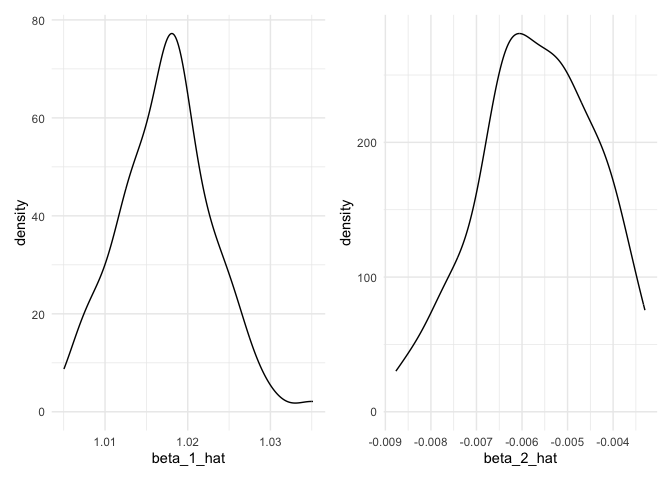
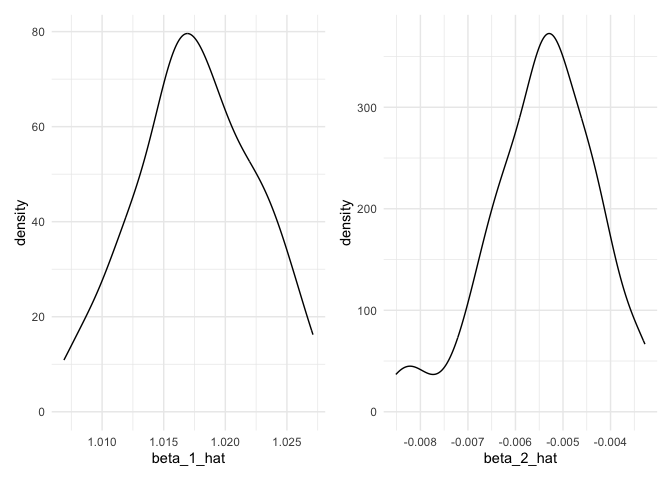
problem 3 - compare models

diff --git a/p8105_hw6_jg5038.md b/p8105_hw6_jg5038.md
@@ -159,7 +159,7 @@ b1_plot + b2_plot
 <img src="p8105_hw6_jg5038_files/figure-gfm/unnamed-chunk-7-1.png" width="90%" />
 
 $\hat{\beta}_1$ and $\hat{\beta}_2$ are both approximately normally
-distributed with means 1.017 and -0.006.
+distributed with means 1.018 and -0.005.
 
 Provide 95% confidence interval for \$^2 and $\hat{\beta}_1$ /
 $\hat{\beta}_2$ :
@@ -183,10 +183,10 @@ weather_sample_df |>
 
 | estimate    |     ci.lower |     ci.upper |
 |:------------|-------------:|-------------:|
-| beta_1\_hat |    1.0071401 |    1.0277218 |
-| beta_2\_hat |   -0.0082603 |   -0.0034429 |
-| beta_ratio  | -295.5294341 | -122.6917785 |
-| r_sq_hat    |    0.9328905 |    0.9462976 |
+| beta_1\_hat |    1.0082708 |    1.0260448 |
+| beta_2\_hat |   -0.0082164 |   -0.0033826 |
+| beta_ratio  | -302.8501595 | -123.5245685 |
+| r_sq_hat    |    0.9357467 |    0.9466976 |
 
 ## Problem 3
 
@@ -252,8 +252,8 @@ birth_df = read_csv('./data/birthweight.csv') |>
     ## ℹ Use `spec()` to retrieve the full column specification for this data.
     ## ℹ Specify the column types or set `show_col_types = FALSE` to quiet this message.
 
-First let’s look at the data by the most obvious predictor which is
-mother’s weight gain:
+First let’s look at the data by some obvious predictors: length,
+gestational weeks, and mother’s weight gain:
 
 ``` r
 birth_df |> 
@@ -262,6 +262,64 @@ birth_df |>
 ```
 
 <img src="p8105_hw6_jg5038_files/figure-gfm/unnamed-chunk-10-1.png" width="90%" />
+
+Look at scatterplots for all continuous variables:
+
+``` r
+birth_df |> 
+  select(-sex, -father_race, -mother_race, -malform) |> 
+  pivot_longer(cols = c("blength_in", "bhead_in", "gaweeks", "fincome", "m_height", "m_wt_lb", "m_ppwt_lb", "m_wtgain_lb", "m_age_delivery", "m_age_menarche","avg_cig_per_day","parity","pnumlbw","pnumsga"), names_to = "variable", values_to = "value") |> 
+  ggplot(aes(x = bwt_lb, y = value)) +
+  geom_point() +
+  facet_wrap(~ variable, scales = "free_y") + # 'scales = "free_y"' allows y-axes to vary
+  labs(title = "Birthweight and all continuous variables")
+```
+
+<img src="p8105_hw6_jg5038_files/figure-gfm/unnamed-chunk-11-1.png" width="90%" />
+
+Look at boxplots for all discrete variables:
+
+``` r
+birth_df |> 
+  select(bwt_lb, sex, father_race, mother_race, malform) |> 
+  pivot_longer(cols = c("sex", "father_race", "mother_race", "malform"), names_to = "variable", values_to = "value") |> 
+  ggplot(aes(x = bwt_lb, y = value)) +
+  geom_boxplot() +
+  facet_wrap(~ variable, scales = "free_y") + # 'scales = "free_y"' allows y-axes to vary
+  labs(title = "Birthweight and all discrete")
+```
+
+<img src="p8105_hw6_jg5038_files/figure-gfm/unnamed-chunk-12-1.png" width="90%" />
+
+Use a simple linear regression model using 3 predictors that look the
+most highly correlated in the scatterplots:
+
+``` r
+lm_3_predictors = function(df) {
+  lm(bwt_lb ~ blength_in + m_wtgain_lb + gaweeks, data = df)
+}
+
+lm_3_fit = lm_3_predictors(birth_df)
+
+#get built in plots for diagnostics
+plot(lm_3_fit)
+```
+
+<img src="p8105_hw6_jg5038_files/figure-gfm/unnamed-chunk-13-1.png" width="90%" /><img src="p8105_hw6_jg5038_files/figure-gfm/unnamed-chunk-13-2.png" width="90%" /><img src="p8105_hw6_jg5038_files/figure-gfm/unnamed-chunk-13-3.png" width="90%" /><img src="p8105_hw6_jg5038_files/figure-gfm/unnamed-chunk-13-4.png" width="90%" />
+
+Get predictions and look at residuals:
+
+``` r
+bwt_predictions = 
+  birth_df |> 
+  select(bwt_lb) |> 
+  mutate(
+    bwt_lb_pred = predict(lm_3_fit, newx = x),
+    residuals = bwt_lb - bwt_lb_pred
+  ) |> 
+  ggplot(aes(x = bwt_lb_pred, y = residuals)) +
+  geom_point(alpha = 0.5)
+```
 
 Use LASSO to build model:
 
@@ -305,7 +363,7 @@ lasso_fit |>
     ## Call `lifecycle::last_lifecycle_warnings()` to see where this warning was
     ## generated.
 
-<img src="p8105_hw6_jg5038_files/figure-gfm/unnamed-chunk-12-1.png" width="90%" />
+<img src="p8105_hw6_jg5038_files/figure-gfm/unnamed-chunk-16-1.png" width="90%" />
 
 ``` r
 lasso_cv |> 
@@ -321,12 +379,12 @@ lasso_cv |>
   geom_hline(yintercept = cv_1se, color = "lightgreen") 
 ```
 
-<img src="p8105_hw6_jg5038_files/figure-gfm/unnamed-chunk-12-2.png" width="90%" />
+<img src="p8105_hw6_jg5038_files/figure-gfm/unnamed-chunk-16-2.png" width="90%" />
 
 We can see the cross validated error is basically the same for optimal
 lambda (all predictors) and lambda within 1 standard deviation.
 
-0.3731209 - 0.3648316 = 0.0082892
+0.3713339 - 0.3629043 = 0.0084295
 
 Use lambda within 1 se:
 
@@ -334,7 +392,7 @@ Use lambda within 1 se:
 lasso_fit_1se = glmnet(x, y, lambda = lambda_1se)
 ```
 
-Get predictions
+Get predictions and plot residuals:
 
 ``` r
 bwt_predictions = 
@@ -343,20 +401,12 @@ bwt_predictions =
   mutate(
     bwt_lb_pred = predict(lasso_fit_1se, newx = x)[,1],
     residuals = bwt_lb - bwt_lb_pred
-  )
-```
-
-Plot residuals:
-
-``` r
-bwt_predictions |>
+  ) |> 
   ggplot(aes(x = bwt_lb_pred, y = residuals)) +
   geom_point(alpha = 0.5)
 ```
 
-<img src="p8105_hw6_jg5038_files/figure-gfm/unnamed-chunk-15-1.png" width="90%" />
-
-Looks good let’s compare to the other models
+Run comparison across models:
 
 ``` r
 lm_main_effects = function(df) {
@@ -402,12 +452,14 @@ cv_df =
   #fit models => use training data
   mutate(
     glm = map(train, glm_lambda_1se),
+    lm_3 = map(train, lm_3_predictors),
     lm_me = map(train, lm_main_effects),
     lm_3wi = map(train, lm_3_way_interaction)
   ) |> 
   #get rmse => use testing data
   mutate(
     rmse_glm = map2_dbl(glm, test, get_rmse),
+    rmse_linear_3 = map2_dbl(lm_3, test, rmse),
     rmse_linear_simple = map2_dbl(lm_me, test, rmse),
     rmse_linear_complex = map2_dbl(lm_3wi, test, rmse)
   )
@@ -427,12 +479,13 @@ cv_df |>
   geom_violin()
 ```
 
-<img src="p8105_hw6_jg5038_files/figure-gfm/unnamed-chunk-18-1.png" width="90%" />
+<img src="p8105_hw6_jg5038_files/figure-gfm/unnamed-chunk-21-1.png" width="90%" />
 
 RMSE is lowest in glm model
 
 | model          | mean_RMSE |
 |:---------------|----------:|
-| glm            |     0.612 |
-| linear_complex |     0.635 |
-| linear_simple  |     0.740 |
+| glm            |     0.609 |
+| linear_3       |     0.726 |
+| linear_complex |     0.632 |
+| linear_simple  |     0.733 |
